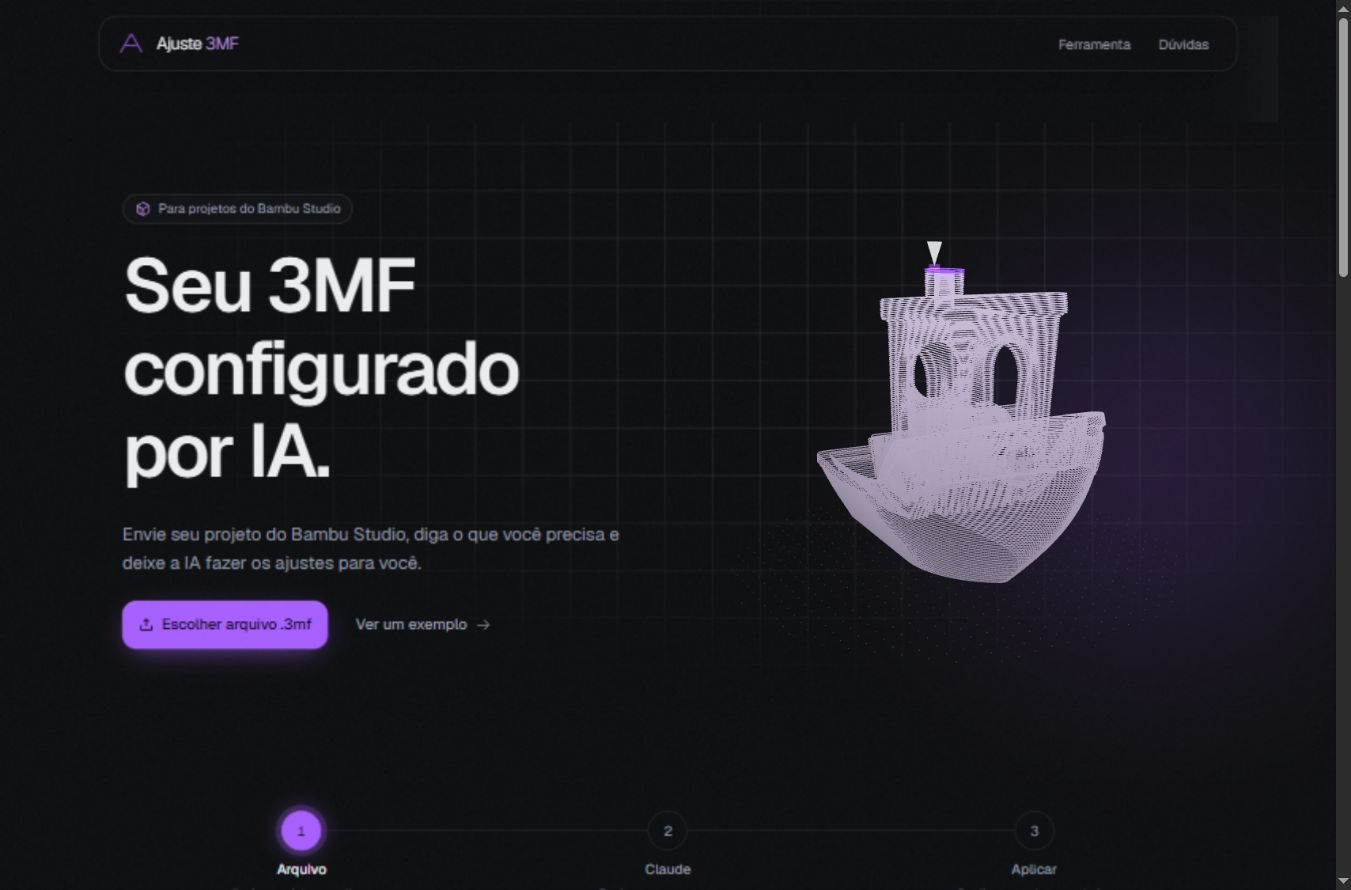
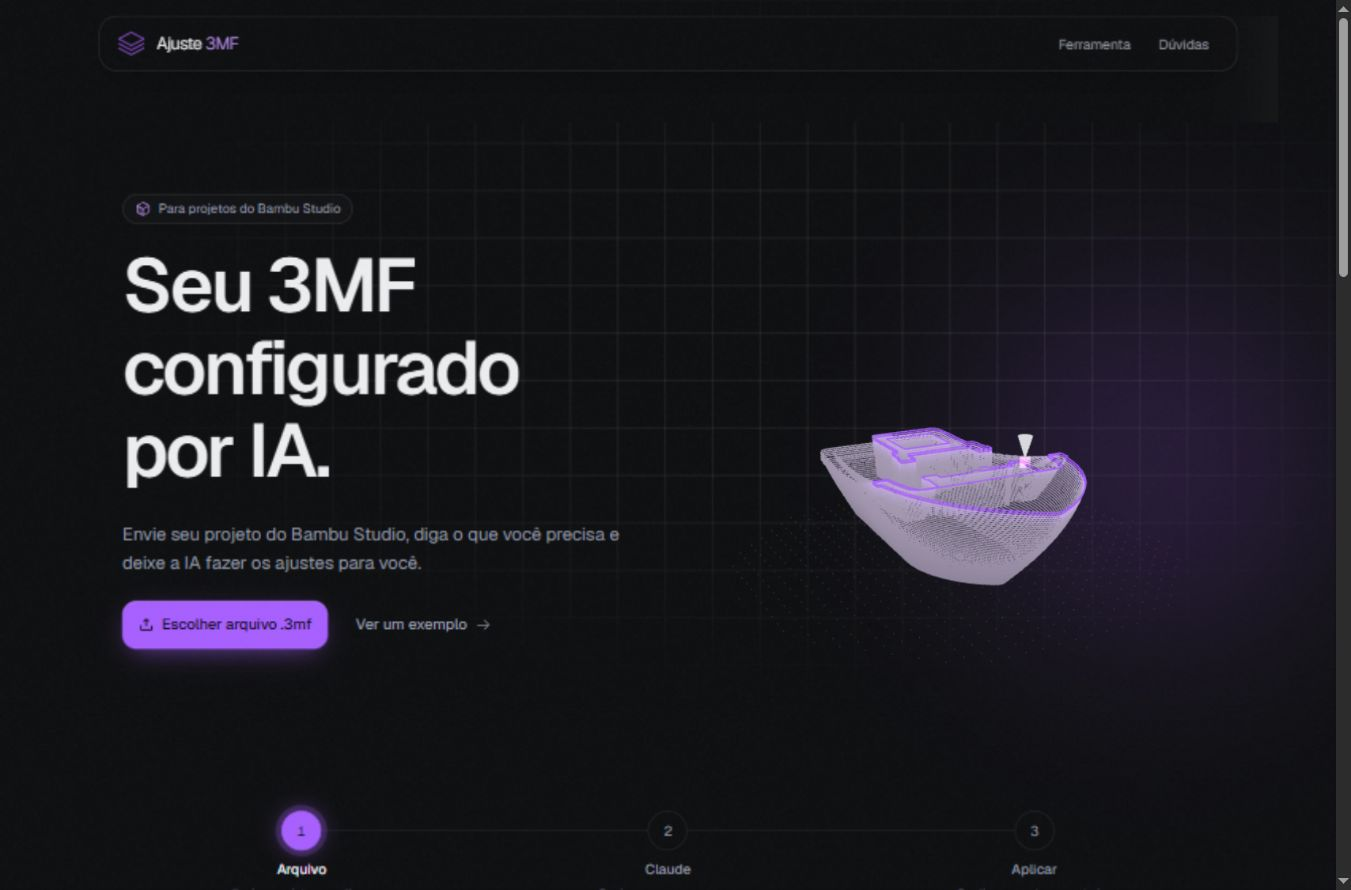
Usar icone slim de camadas como marca do Ajuste 3MF

Changed region(s): [[0.5907, 0.273, 0.8394, 0.6674], [0.0933, 0.0303, 0.1244, 0.0607]]

diff --git a/src/App.tsx b/src/App.tsx
@@ -51,8 +51,8 @@ import {
 // A cena 3D é pesada (Three.js): carrega à parte, depois do resto da página.
 const PrintScene = lazy(() => import("@/components/print-scene"))
 
-// Monograma A em traço fino, com o ponto de ajuste integrado à barra.
-const LOGO = import.meta.env.BASE_URL + "brand.svg"
+// Três camadas em traço fino, remetendo ao fatiamento de uma peça 3D.
+const LOGO = import.meta.env.BASE_URL + "brand.svg?v=layers"
 
 const OPT = {
   printer: ["Bambu Lab A1", "Bambu Lab A1 mini", "Bambu Lab P1S", "Bambu Lab P1P", "Bambu Lab X1 Carbon", "Bambu Lab X1E", "Bambu Lab H2D"],

diff --git a/index.html b/index.html
@@ -9,7 +9,7 @@
     <meta name="color-scheme" content="dark" />
 
     <!-- Ícone da aba do navegador -->
-    <link rel="icon" type="image/svg+xml" href="/brand.svg" />
+    <link rel="icon" type="image/svg+xml" href="/brand.svg?v=layers" />
 
     <!-- Prévia do link no WhatsApp, Instagram, Telegram e redes sociais -->
     <meta property="og:type" content="website" />

diff --git a/README.md b/README.md
@@ -62,8 +62,8 @@ Para regenerar os contornos, instale `numpy` em um ambiente Python e execute `py
 
 ## Identidade própria
 
-Ajuste 3MF usa uma logo vetorial própria, com camadas de impressão e um ponto de ajuste. O rodapé mantém um link discreto para a origem, sem usar o nome ou os logos anteriores como identidade do site. Os contornos do barquinho omitem a inscrição na base do STL original.
+Ajuste 3MF usa uma logo vetorial própria, com três camadas de fatiamento em traço fino. O rodapé mantém um link discreto para a origem, sem usar o nome ou os logos anteriores como identidade do site. Os contornos do barquinho omitem a inscrição na base do STL original.
 
 ## Logo slim e acabamento
 
-A marca usa um monograma A em traço fino, sem moldura, com um ponto de ajuste na barra. O resumo para a IA solicita avaliar engomar/passar ferro nas faces superiores planas, respeitando filamento, geometria e tempo adicional. A alteração usa `ironing_type` quando ela existe no projeto; quando não existe, o prompt explica a limitação, sem gerar uma alteração que seria ignorada. O app continua exigindo confirmação das mudanças antes de baixar o 3MF.
+A marca usa um ícone de três camadas em traço fino, sem moldura, remetendo a um fatiador 3D. O resumo para a IA solicita avaliar engomar/passar ferro nas faces superiores planas, respeitando filamento, geometria e tempo adicional. A alteração usa `ironing_type` quando ela existe no projeto; quando não existe, o prompt explica a limitação, sem gerar uma alteração que seria ignorada. O app continua exigindo confirmação das mudanças antes de baixar o 3MF.

diff --git a/CLAUDE.md b/CLAUDE.md
@@ -43,7 +43,7 @@ Todo push na `main` dispara o `.github/workflows/deploy.yml`, que roda os testes
 
 ## Imagens
 
-A identidade própria usa `public/brand.svg` (monograma A em traço fino) e `public/logo-ajuste-3mf.svg` (assinatura com nome), ambos em `#A75EFF`. Não reutilize logos da origem. A prévia social é `public/og.jpg`; atualize-a quando o topo mudar. A cena usa os contornos do 3DBenchy em `public/models/benchy-layers.json`, sem a inscrição na base. Preserve os links discretos de atribuição no rodapé.
+A identidade própria usa `public/brand.svg` (ícone de três camadas de fatiamento em traço fino) e `public/logo-ajuste-3mf.svg` (assinatura com nome), ambos em `#A75EFF`. Não reutilize logos da origem. A prévia social é `public/og.jpg`; atualize-a quando o topo mudar. A cena usa os contornos do 3DBenchy em `public/models/benchy-layers.json`, sem a inscrição na base. Preserve os links discretos de atribuição no rodapé.
 
 ## Roteiro de teste
 
